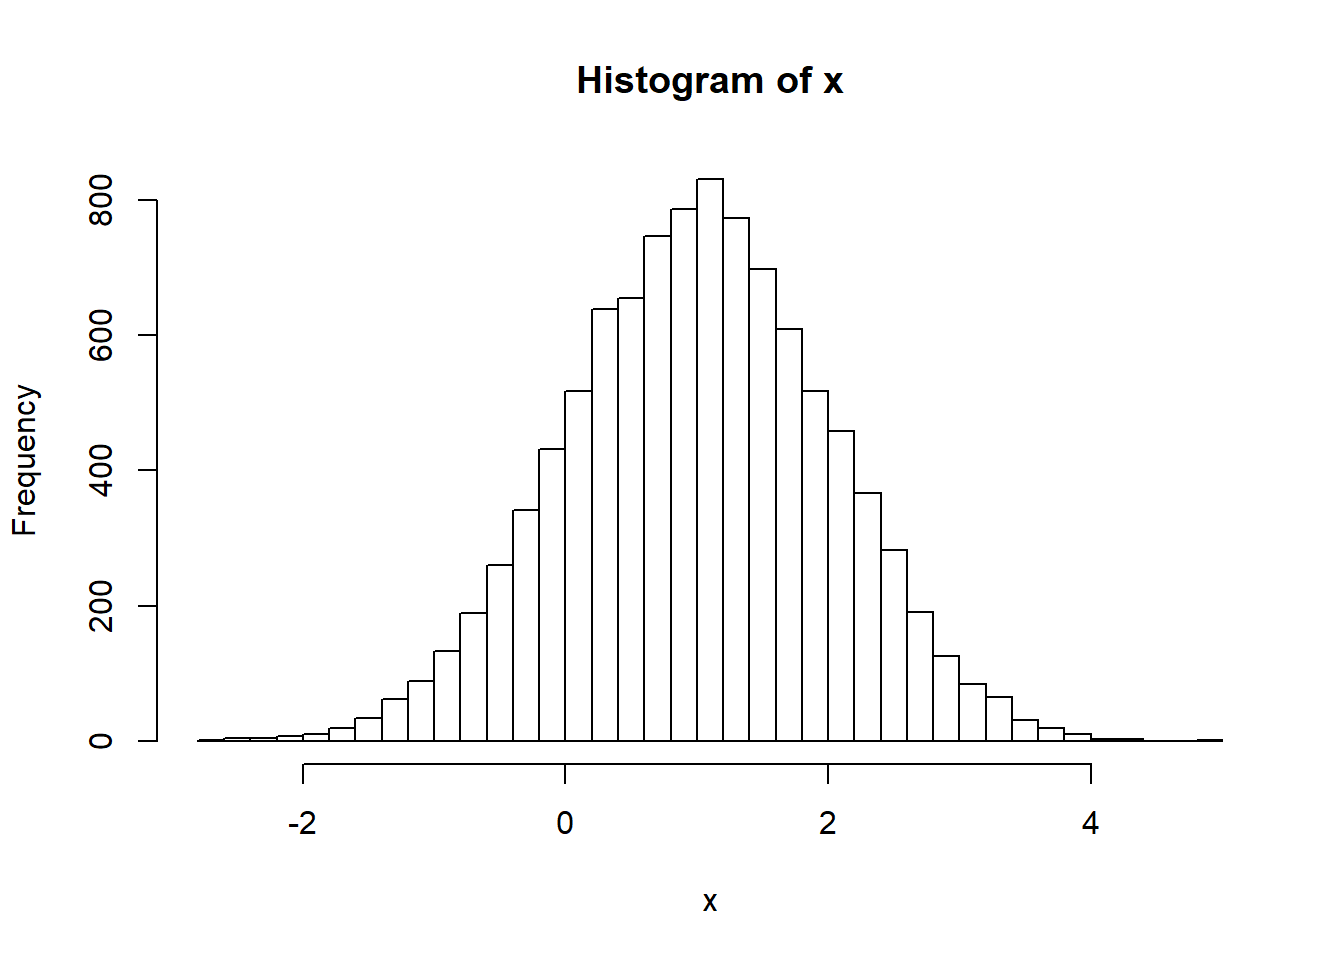
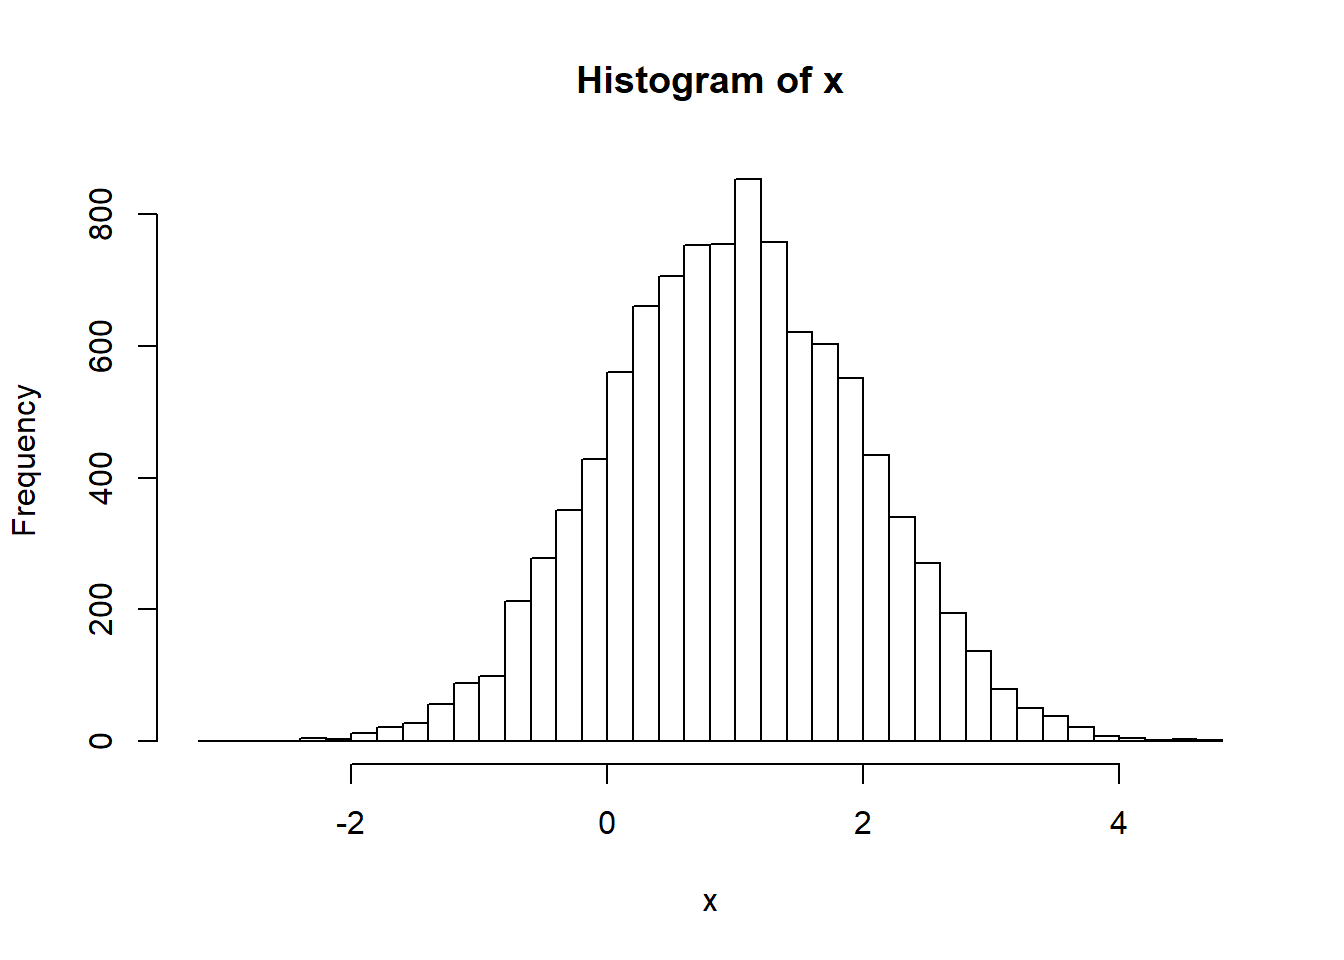
kjbk

diff --git a/content/post/2019-05-10-comando-basicos-r.html b/content/post/2019-05-10-comando-basicos-r.html
@@ -46,17 +46,17 @@ image:
 <li><a href="#factor">factor</a></li>
 <li><a href="#function">function</a></li>
 </ul></li>
-<li><a href="#operadores-de-logica">Operadores de lógica</a></li>
+</ul></li>
+<li><a href="#operadores-de-logica">Operadores de lógica</a><ul>
 <li><a href="#funcoes-if-e-else">Funções <code>if</code> e <code>else</code></a></li>
 <li><a href="#funcao-for">Função <code>for</code></a></li>
 </ul></li>
-<li><a href="#gerando-numeros-aleatorios-e-amostragem">Gerando números aleatórios e amostragem</a><ul>
+<li><a href="#gerando-numeros-aleatorios-e-amostragem">Gerando números aleatórios e amostragem</a></li>
 <li><a href="#graficos-de-analise-descritiva">Gráficos de Análise Descritiva</a><ul>
 <li><a href="#histograma">Histograma</a></li>
 <li><a href="#grafico-de-dispersao">Gráfico de dispersão</a></li>
 <li><a href="#barplot">Barplot</a></li>
 <li><a href="#boxplot">Boxplot</a></li>
-</ul></li>
 </ul></li>
 </ul>
 </div>
@@ -247,7 +247,7 @@ Auckland, ajudaram Ross Ihaka a desenvolver a versão para Macintosh.</p>
 ## cite it when using it for data analysis. See also
 ## &#39;citation(&quot;pkgname&quot;)&#39; for citing R packages.</code></pre>
 <pre class="r"><code>Sys.time()                  # obtém data e hora exata do sistema</code></pre>
-<pre><code>## [1] &quot;2019-05-17 16:32:02 -03&quot;</code></pre>
+<pre><code>## [1] &quot;2019-05-17 17:59:48 -03&quot;</code></pre>
 </div>
 <div id="operadores-simples-e-funcoes-matematicas" class="section level2">
 <h2>Operadores simples e funções matemáticas</h2>
@@ -566,8 +566,9 @@ cores</code></pre>
 <hr />
 </div>
 </div>
-<div id="operadores-de-logica" class="section level2">
-<h2>Operadores de lógica</h2>
+</div>
+<div id="operadores-de-logica" class="section level1">
+<h1>Operadores de lógica</h1>
 <pre class="r"><code>a &lt;- c(1:10)
 a</code></pre>
 <pre><code>##  [1]  1  2  3  4  5  6  7  8  9 10</code></pre>
@@ -582,7 +583,6 @@ a</code></pre>
 <pre><code>##  [1] TRUE TRUE TRUE TRUE TRUE TRUE TRUE TRUE TRUE TRUE</code></pre>
 <pre class="r"><code>a[c(T,T,T,T,F,F,F,F,T,T)]</code></pre>
 <pre><code>## [1]  1  2  3  4  9 10</code></pre>
-</div>
 <div id="funcoes-if-e-else" class="section level2">
 <h2>Funções <code>if</code> e <code>else</code></h2>
 <pre class="r"><code>x &lt;- 2
@@ -593,7 +593,7 @@ x &lt;- 1
 if(x == 1) {
   Sys.time()
 }</code></pre>
-<pre><code>## [1] &quot;2019-05-17 16:32:04 -03&quot;</code></pre>
+<pre><code>## [1] &quot;2019-05-17 17:59:49 -03&quot;</code></pre>
 <pre class="r"><code>if(x &lt; 0) {
   sinal &lt;- &quot;negativo&quot;
 } else if(x == 0) {
@@ -622,71 +622,71 @@ soma</code></pre>
 <div id="gerando-numeros-aleatorios-e-amostragem" class="section level1">
 <h1>Gerando números aleatórios e amostragem</h1>
 <pre class="r"><code>runif(100)        # Gera números aleatórios entre 0 e 1 com distribuição uniforme</code></pre>
-<pre><code>##   [1] 0.8932908806 0.9052530876 0.0375170675 0.8363593188 0.9818556053
-##   [6] 0.5985628816 0.1832871111 0.0862778947 0.5869609928 0.5558793326
-##  [11] 0.3346325369 0.4321933810 0.7734679095 0.1053415425 0.4086078443
-##  [16] 0.2631350514 0.5740928114 0.6427381292 0.3307638748 0.2250750754
-##  [21] 0.6270888881 0.1664315069 0.2552341102 0.4642965586 0.1675002889
-##  [26] 0.5213162308 0.4383155489 0.6170912916 0.8471803053 0.6208662335
-##  [31] 0.6149731637 0.0715394584 0.1175430897 0.8199234400 0.0880242938
-##  [36] 0.1762251777 0.5818129042 0.8727365788 0.6582955141 0.0008735114
-##  [41] 0.9055950148 0.1672657602 0.5912904539 0.0586730945 0.4546864268
-##  [46] 0.3359193725 0.2158082493 0.4329064067 0.9404405167 0.2053839539
-##  [51] 0.0527357038 0.7558007415 0.4111597771 0.0322948669 0.9981951811
-##  [56] 0.3804028945 0.0537331149 0.3325275399 0.5040218735 0.4564822186
-##  [61] 0.4444043452 0.3340313309 0.8891872431 0.2461581628 0.9449045740
-##  [66] 0.2906381013 0.0027269966 0.5031142330 0.4821719420 0.4676044879
-##  [71] 0.2599698955 0.6562862566 0.7438409170 0.0395970542 0.3556587372
-##  [76] 0.4947614870 0.8913939118 0.4487673608 0.7012687621 0.7236171460
-##  [81] 0.3315804193 0.6279504721 0.5506878141 0.0012705913 0.4114258767
-##  [86] 0.4114451248 0.2152473647 0.9929303979 0.7949649417 0.5329308982
-##  [91] 0.5276396631 0.3495982997 0.3161793619 0.7113691031 0.1351793741
-##  [96] 0.2815254962 0.7900981228 0.8929140077 0.2226931110 0.5926758458</code></pre>
+<pre><code>##   [1] 0.496360919 0.460517919 0.810215905 0.327876053 0.343150636
+##   [6] 0.720966254 0.868632799 0.116383421 0.229154521 0.982036105
+##  [11] 0.241374299 0.206217034 0.633960899 0.562880186 0.539847748
+##  [16] 0.286148014 0.864456962 0.519425497 0.790715367 0.824220042
+##  [21] 0.971036003 0.818160805 0.733558723 0.134734213 0.246665683
+##  [26] 0.043314810 0.819610327 0.042603371 0.352176738 0.022108949
+##  [31] 0.281951636 0.340356296 0.991742756 0.525393913 0.435432805
+##  [36] 0.541058667 0.720315601 0.825553656 0.869856146 0.028632557
+##  [41] 0.074335565 0.274565835 0.554906768 0.229693144 0.280945382
+##  [46] 0.855239674 0.557151933 0.327595189 0.023467137 0.496917778
+##  [51] 0.545589877 0.363863801 0.153532848 0.374667757 0.423006912
+##  [56] 0.986558682 0.960806147 0.435827198 0.355188866 0.920199716
+##  [61] 0.055962986 0.148926658 0.925492912 0.330702526 0.202776410
+##  [66] 0.006405590 0.201115440 0.289670755 0.808559398 0.341397950
+##  [71] 0.378245531 0.663941022 0.853296418 0.642147153 0.181156026
+##  [76] 0.942062094 0.127360768 0.898980125 0.881033337 0.775934454
+##  [81] 0.448355141 0.039681937 0.989938045 0.832459292 0.583933506
+##  [86] 0.290309545 0.531676389 0.024603882 0.371441785 0.379142521
+##  [91] 0.809202392 0.958014805 0.396448755 0.577520613 0.003386277
+##  [96] 0.705493333 0.270964846 0.154595056 0.190589844 0.983915310</code></pre>
 <pre class="r"><code>rnorm(100)        # Gera números aleatórios com distribuição normal</code></pre>
-<pre><code>##   [1]  0.90728195  0.09391982  0.20287365 -0.08446100 -0.33782499
-##   [6] -0.74903152 -2.12626922  1.19022870  0.29113317  0.97139130
-##  [11]  0.16181664 -0.54764249 -0.15931030 -1.29452055 -1.96577425
-##  [16] -2.14552400 -0.27720023 -0.87716207 -0.64944944 -1.44156189
-##  [21]  0.12612833 -1.11333892 -0.70339035  0.32116248 -0.76402048
-##  [26]  1.63386835 -0.63130957  0.87241975 -0.41035001 -1.23902217
-##  [31]  0.17666826  0.03074024 -0.10783682 -1.60118882 -1.81613460
-##  [36]  1.57573881 -0.40262652 -0.02486720  1.06247116  1.03667257
-##  [41] -0.12248629  0.59401017 -0.24459604 -1.00852573 -0.77947562
-##  [46] -1.15294557 -0.56759830 -0.96080924  0.30401995 -0.12557669
-##  [51]  3.06182130 -0.21480664 -0.96333143  1.14493593  0.68238642
-##  [56] -1.93393759 -0.19841200  0.03477439  1.63571947 -1.25223824
-##  [61] -0.84154656 -0.48915258  0.92074060 -0.14779623 -0.60988973
-##  [66]  0.91161912  1.96875931  0.40665842 -0.23643155  0.32195225
-##  [71] -0.38148774  0.27117994 -0.55700616  0.03908744 -1.31235511
-##  [76] -0.78572796  0.03510731  0.09695076  1.52131016  0.71196688
-##  [81]  0.14268622  0.13133287  1.53556099 -1.03181025 -0.16333423
-##  [86]  0.58027904  0.67654784 -0.03409683  0.26022676  0.43686282
-##  [91] -1.71413010 -0.34577804 -1.22373228  0.45421912 -1.77679057
-##  [96]  0.01380826 -1.61945502 -0.57548399  1.51791253  1.07363927</code></pre>
+<pre><code>##   [1] -2.066116309 -1.411782782 -0.731780774  1.219586980  0.361770407
+##   [6]  0.346185328  0.244826472  0.194998018  0.181444794 -1.102232467
+##  [11] -0.018894293  0.087704991 -0.526244995 -0.962411555  0.221335888
+##  [16] -1.725866754  1.021795416  0.479750053 -0.329275778  2.272098874
+##  [21]  0.794355894  0.199829025 -1.013101100  1.135839777  1.816558959
+##  [26] -1.405505188 -0.495974013 -0.652337722 -0.090632016 -0.183997881
+##  [31] -0.880506594 -1.003112771 -2.861673781 -0.309744183 -0.571192523
+##  [36]  0.575262531  0.870186600 -1.375677412  1.057431323 -0.377272953
+##  [41]  2.361581122  1.104678431 -0.677001292 -2.242197969 -0.099231119
+##  [46] -0.490693199 -1.232614772 -1.332411887 -0.593975936  0.927845188
+##  [51]  1.551557561 -0.369907688  1.879367443  1.578133338 -0.610727371
+##  [56]  1.466790628 -1.288009655 -0.827887209 -0.605134968  1.968389174
+##  [61] -0.777925876  1.191782184 -0.395422962 -0.835153533  1.622409319
+##  [66] -0.285652040  1.105663238 -1.309052995 -1.346594868  1.363567822
+##  [71]  1.600933931 -0.116475181  0.751118946 -0.004177326  1.492410540
+##  [76]  0.061569880 -1.942329069  0.135258729 -1.537688170  0.539367957
+##  [81] -2.298939335  0.124257326  1.842414887 -0.623052291 -0.152124414
+##  [86]  0.324286788  0.174339714  2.344055242 -0.122392921  1.441454095
+##  [91]  0.799446135 -0.858858979  0.897764937 -1.030989290 -0.390699099
+##  [96]  0.302991719  0.571046965  0.946051448 -0.435977597  0.663414657</code></pre>
 <pre class="r"><code>sample(1:100, 4)  # Amostragem</code></pre>
-<pre><code>## [1] 48 30 50 44</code></pre>
-<div id="graficos-de-analise-descritiva" class="section level2">
-<h2>Gráficos de Análise Descritiva</h2>
-<div id="histograma" class="section level3">
-<h3>Histograma</h3>
+<pre><code>## [1] 39 20 77 88</code></pre>
+</div>
+<div id="graficos-de-analise-descritiva" class="section level1">
+<h1>Gráficos de Análise Descritiva</h1>
+<div id="histograma" class="section level2">
+<h2>Histograma</h2>
 <pre class="r"><code>x &lt;- rnorm(n=10000, mean=1, sd=1)
 hist(x, nclass = 40)</code></pre>
 <p><img src="https://lsbjordao.netlify.com/2019-05-10-comando-basicos-r_files/figure-html/histograma-1.png" width="672" /></p>
 </div>
-<div id="grafico-de-dispersao" class="section level3">
-<h3>Gráfico de dispersão</h3>
+<div id="grafico-de-dispersao" class="section level2">
+<h2>Gráfico de dispersão</h2>
 <pre class="r"><code>plot(x)</code></pre>
 <p><img src="https://lsbjordao.netlify.com/2019-05-10-comando-basicos-r_files/figure-html/plot-1.png" width="672" /></p>
 </div>
-<div id="barplot" class="section level3">
-<h3>Barplot</h3>
+<div id="barplot" class="section level2">
+<h2>Barplot</h2>
 <pre class="r"><code>barplot(x)</code></pre>
 <p><img src="https://lsbjordao.netlify.com/2019-05-10-comando-basicos-r_files/figure-html/barplot-1.png" width="672" /></p>
 </div>
-<div id="boxplot" class="section level3">
-<h3>Boxplot</h3>
+<div id="boxplot" class="section level2">
+<h2>Boxplot</h2>
 <pre class="r"><code>boxplot(x)</code></pre>
 <p><img src="https://lsbjordao.netlify.com/2019-05-10-comando-basicos-r_files/figure-html/boxplot-1.png" width="672" /></p>
-</div>
 </div>
 </div>
